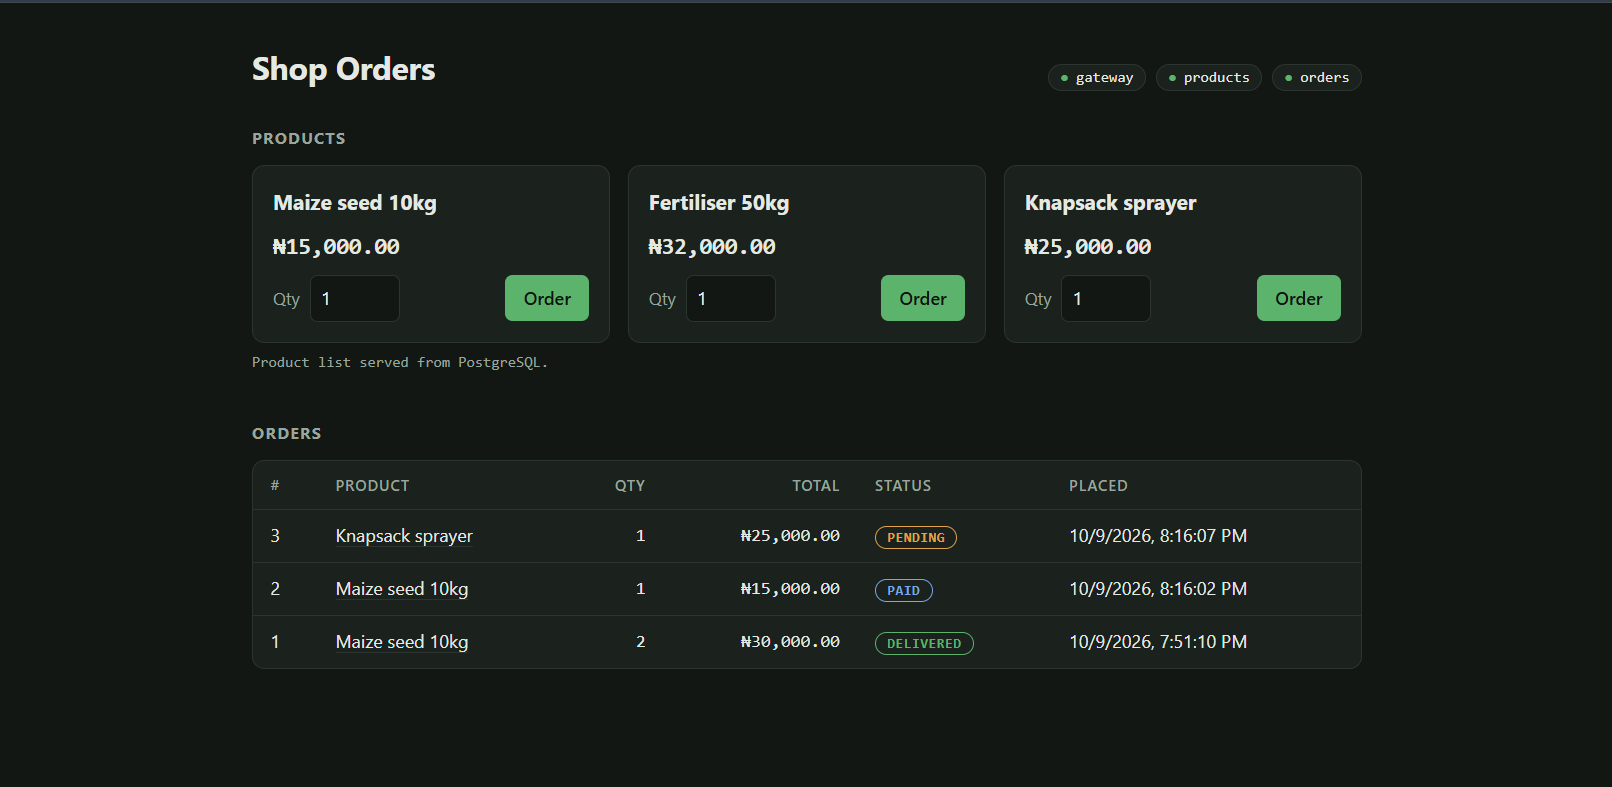
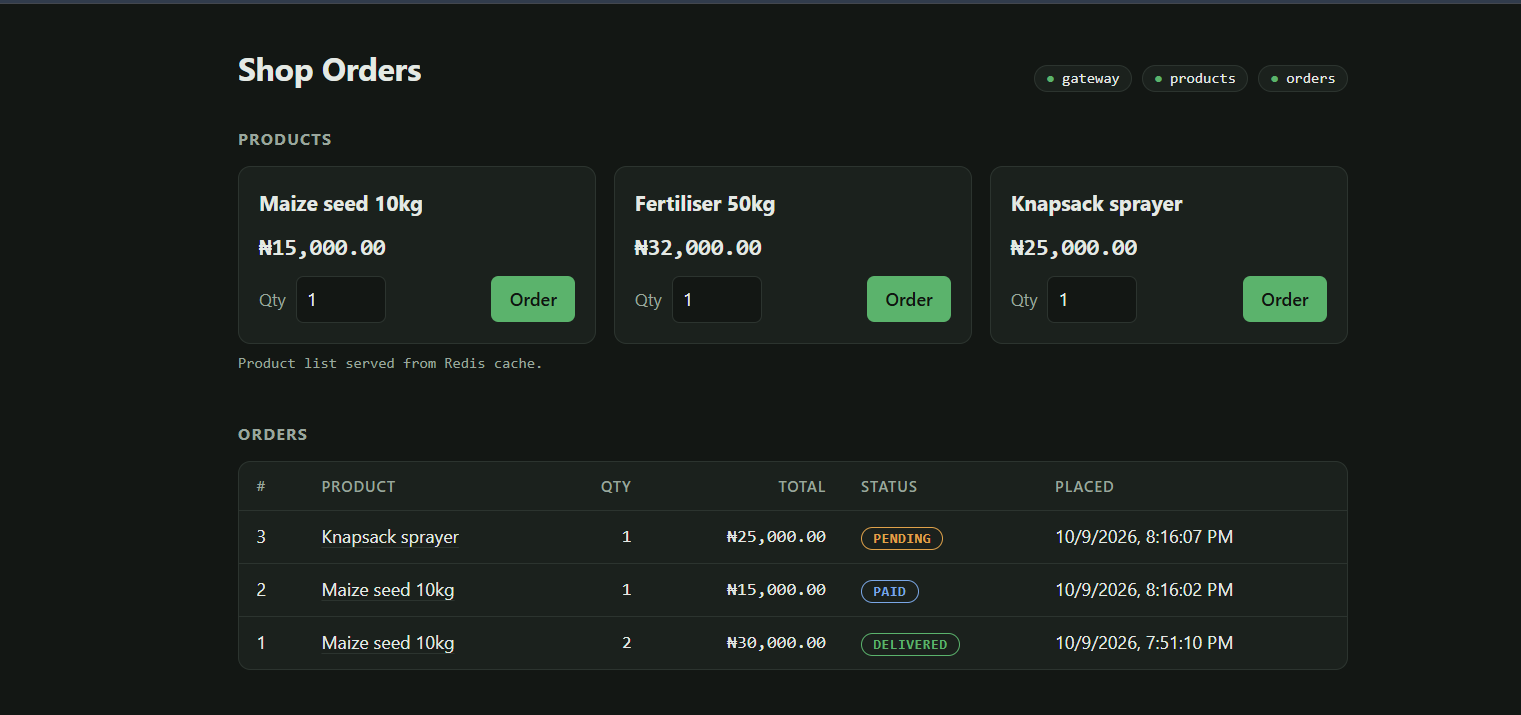
update the readme

diff --git a/README.md b/README.md
@@ -62,6 +62,10 @@ Once the stack is up, every request goes through nginx on port `8080`.
 
 ![New order](images/order.png)
 
+The order page at http://localhost:8080 does all of this from the browser. It shows the health of each service, the products (here served from the Redis cache), an **Order** button for each product, and every order with its status:
+
+![Order page](images/order-page.png)
+
 ## 4. How images are tagged and pushed
 
 Images are named `<DOCKERHUB_USERNAME>/shop-<service>:<TAG>`. In CI, pushing a git tag `v1.0.0` publishes `:v1.0.0`, and every push to `main` publishes `:sha-<commit>`. CI needs the repository secrets `DOCKERHUB_USERNAME` and `DOCKERHUB_TOKEN` (an access token, not your password).
@@ -72,8 +76,11 @@ The pipeline should check every image build size, check for non-root user, Trivy
 
 Trivy scans both the Alpine packages and every npm package in `node_modules`. All three Node services came back clean, with `0` HIGH or CRITICAL vulnerabilities:
 
+### trivy-api-gateway
 ![Trivy scan: api-gateway](images/trivy-api-gateway.png)
 
+### trivy-product-service
 ![Trivy scan: product-service](images/trivy-product-service.png)
 
+### trivy-order-service
 ![Trivy scan: order-service](images/trivy-order-service.png)
